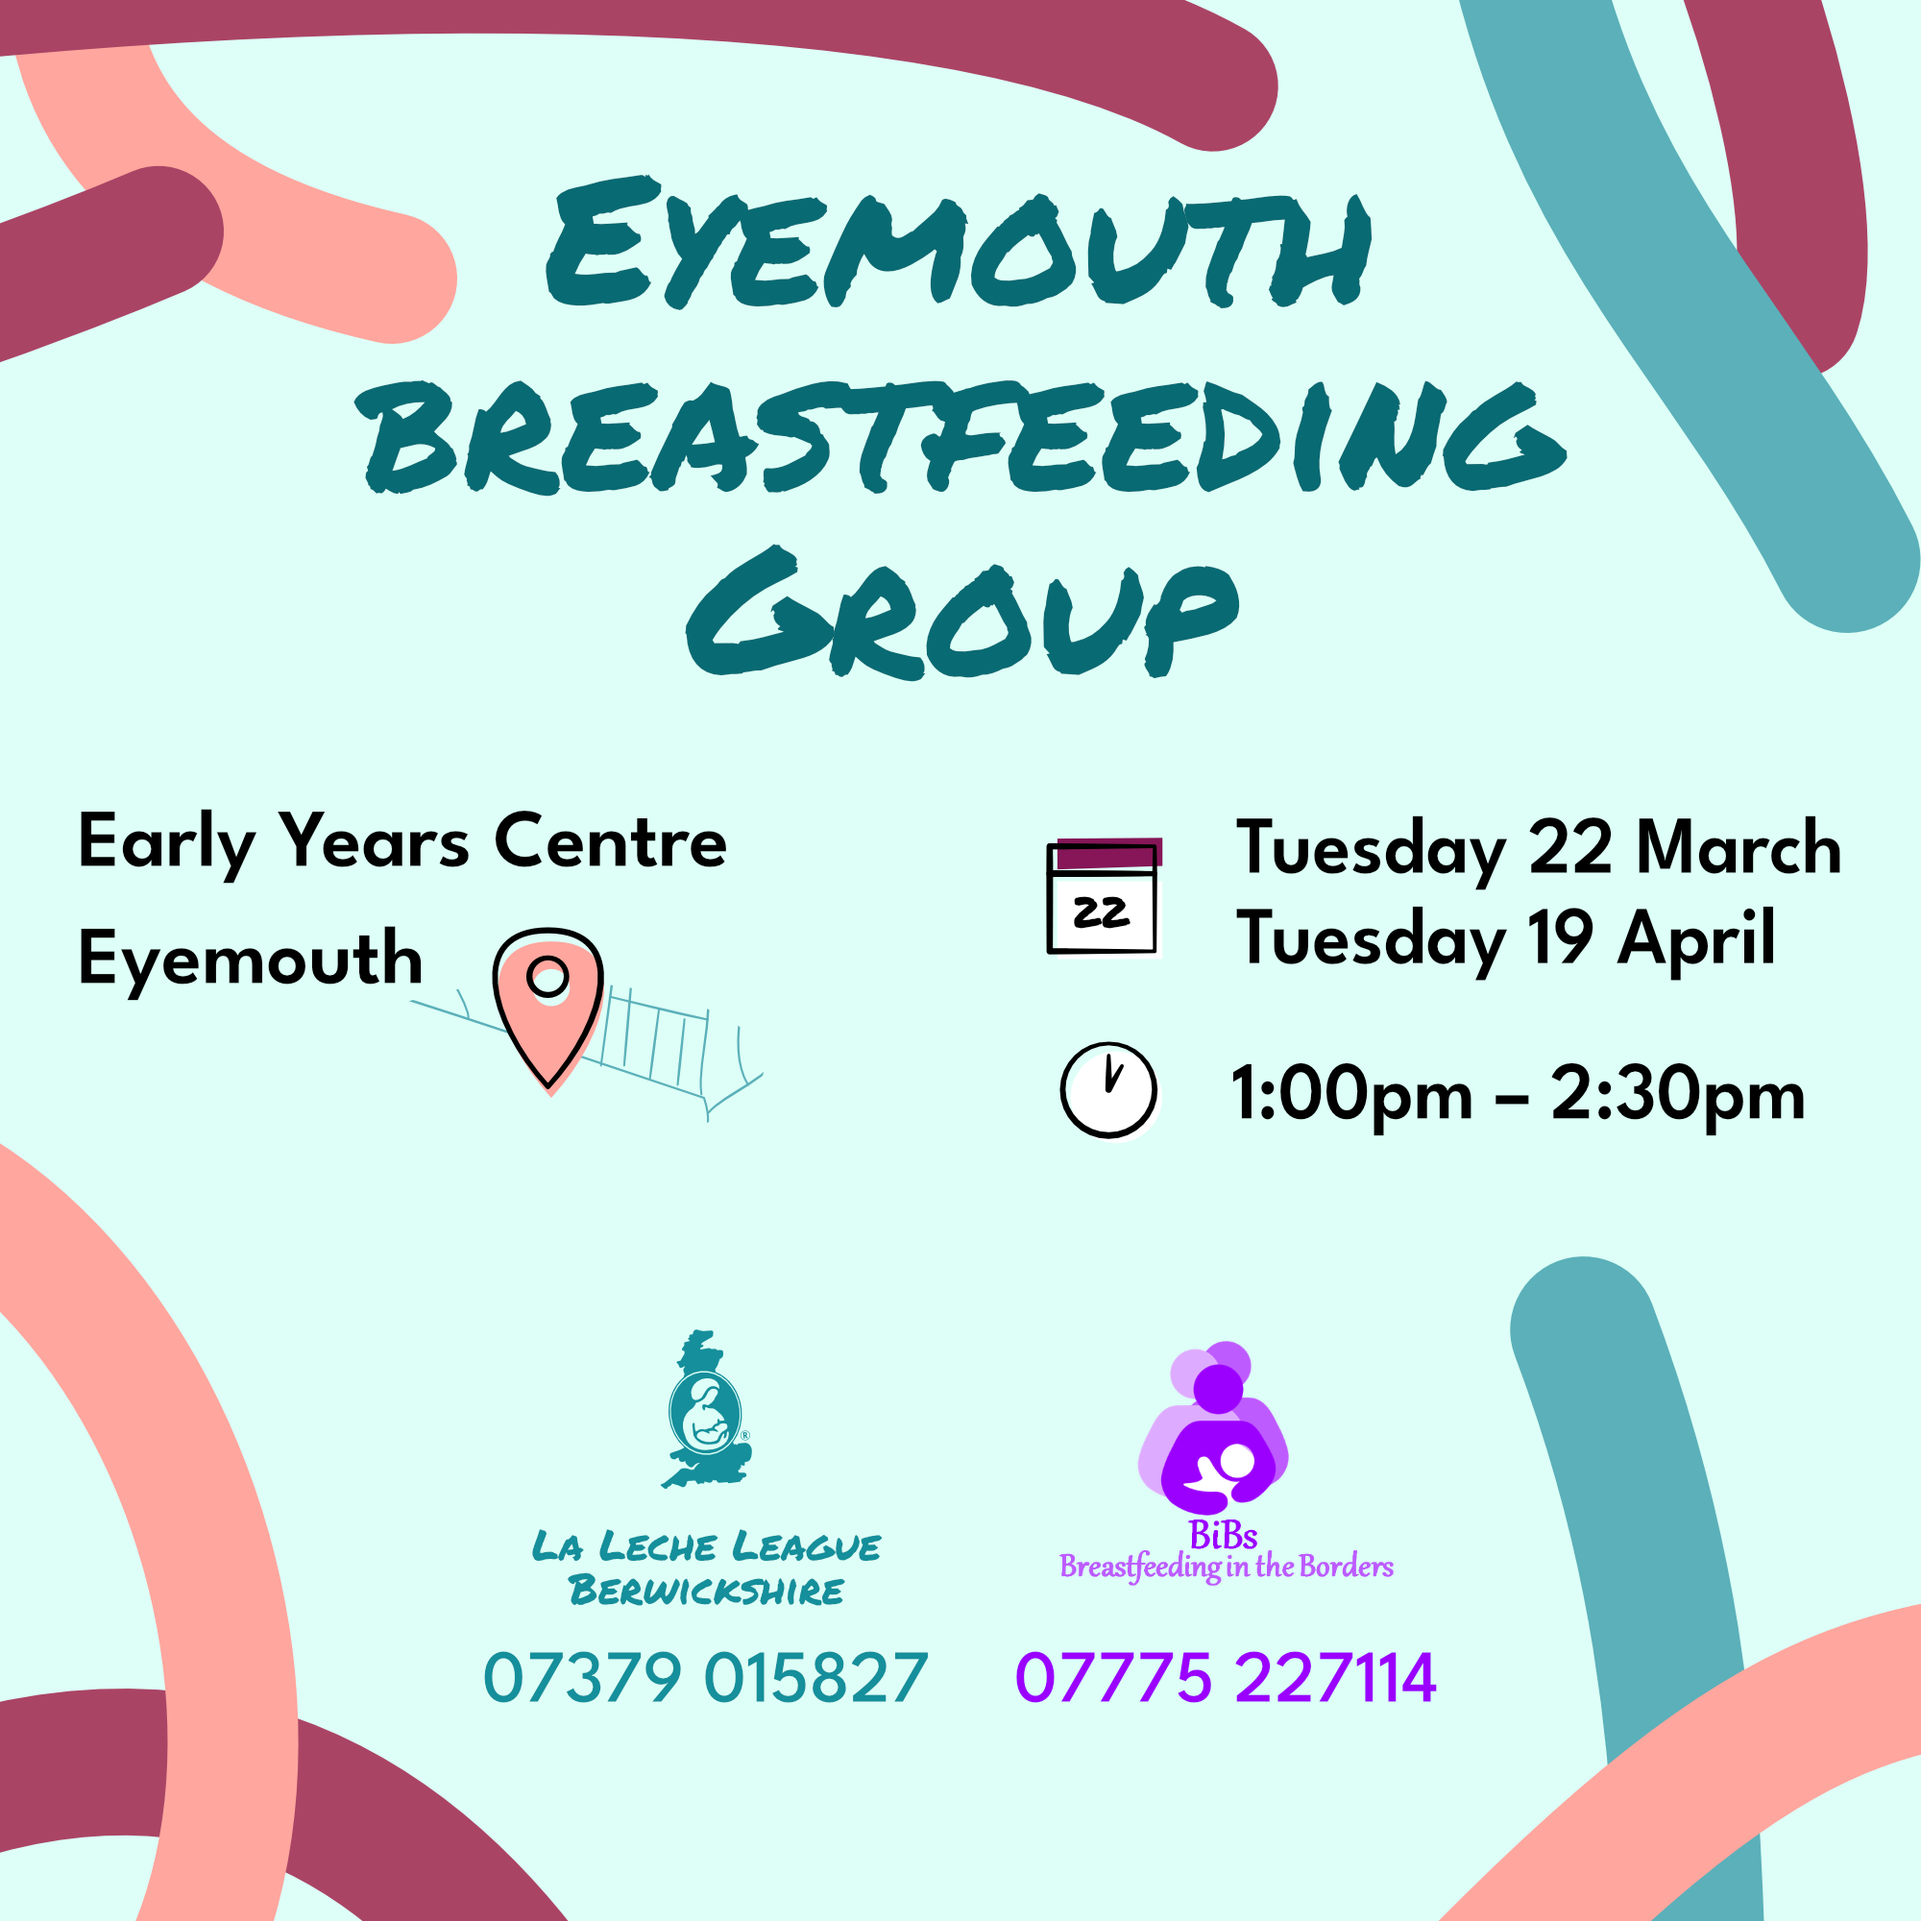
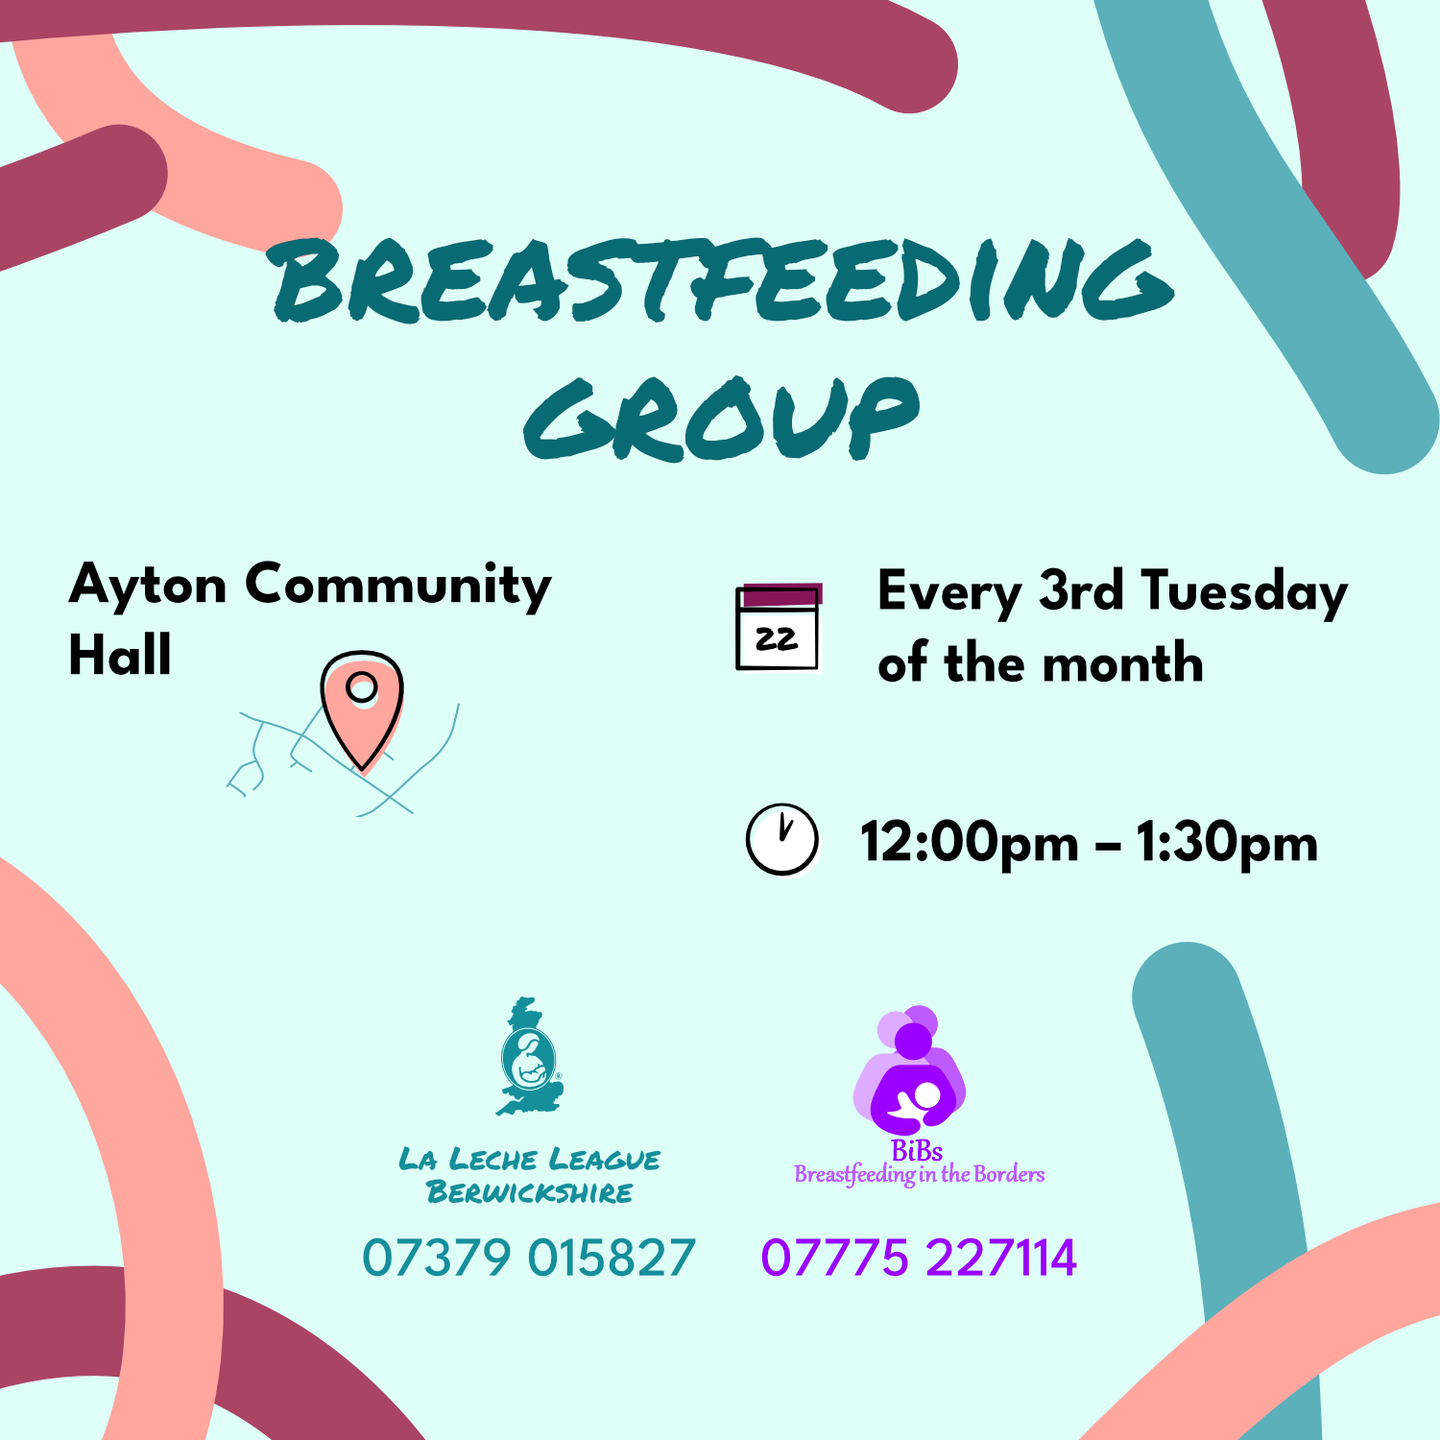
Update meeting dates

diff --git a/content/_index.md b/content/_index.md
@@ -10,9 +10,7 @@ Free breastfeeding support and information from pregnancy onwards
 
 **Ayton Community Hall**
 
-**Tuesday 20 September**
-
-**Tuesday 18 October**
+**Every third Tuesday of the Month**
 
 **12pm – 1:30pm**
 
